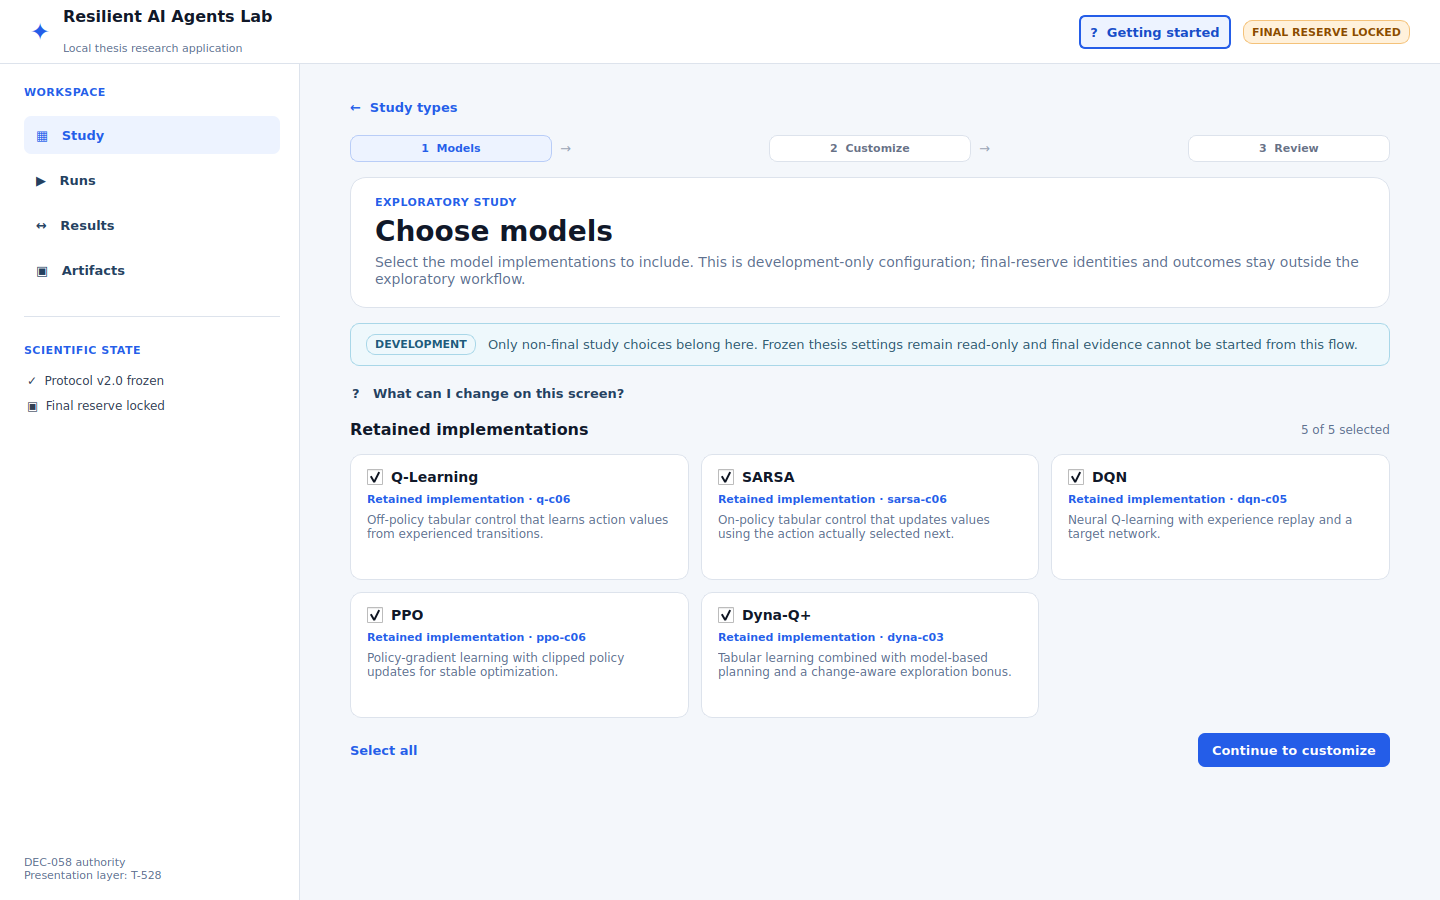
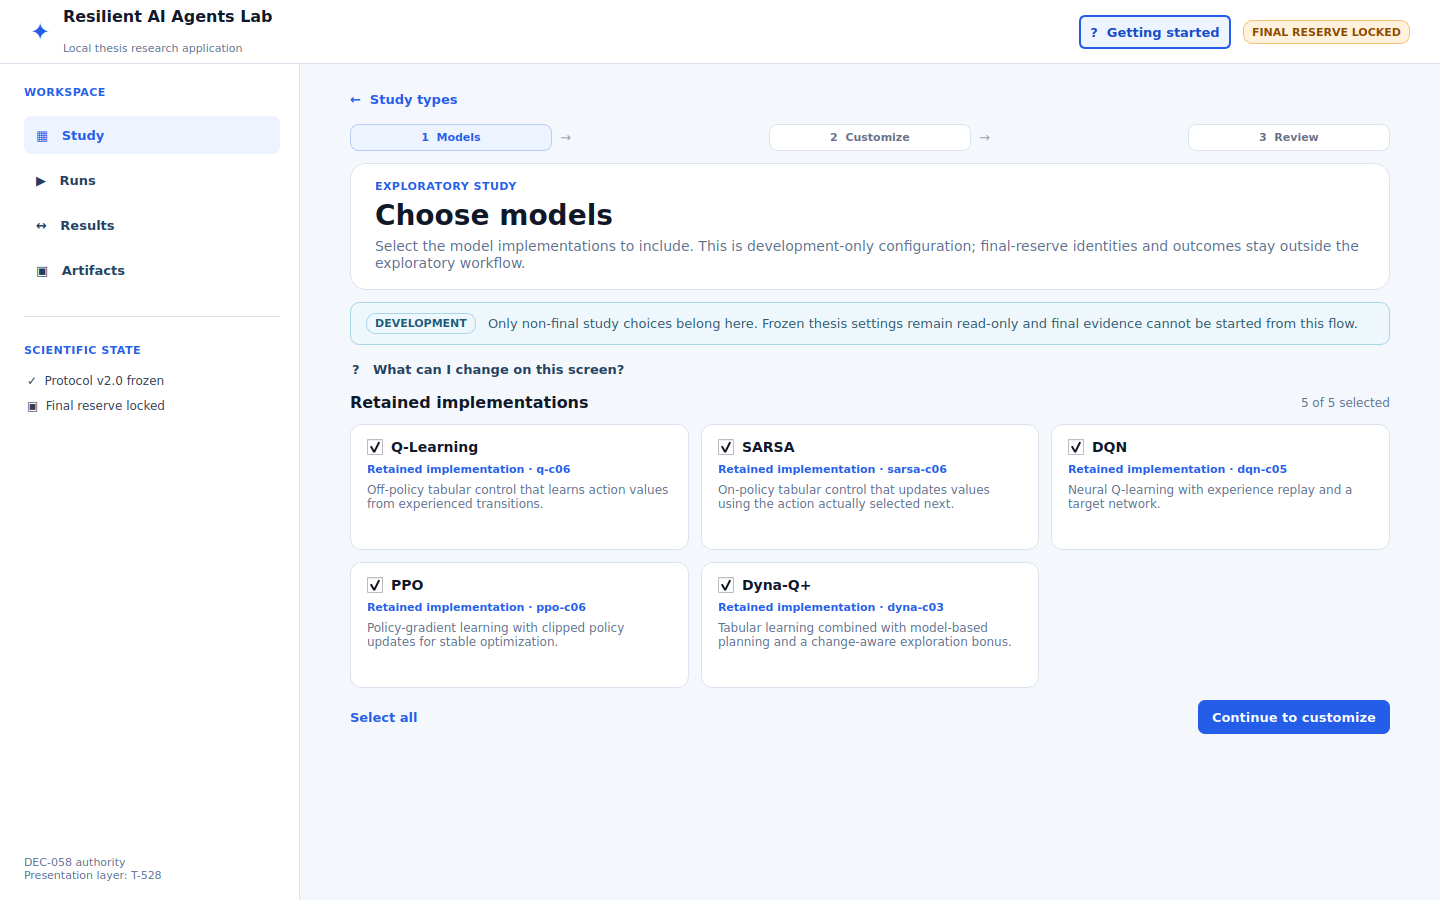
docs(t511): record human acceptance readiness

diff --git a/docs/context/TASKS.md b/docs/context/TASKS.md
@@ -21,11 +21,11 @@ Status: `[x]` complete; `READY` dependency-valid; `IN_PROGRESS` active; `BLOCKED
 
 - **Package:** protocol-v2 methodology/scientific freeze is complete through DEC-058; the framework-neutral Study backend is complete through DEC-051/T-529; the final Python-native application architecture and rebuild are complete through DEC-059/T-528. DEC-042/047 and candidate v1.1 remain auditable predecessor design; historical NiceGUI remains prototype history only.
 - **Project:** **6/8** master milestones objectively complete (#87: 1, 2, 3, 4, 5, 7). Milestone 6 awaits explicit intended-user acceptance; milestone 8 additionally awaits the final v2 evidence chain.
-- **Current task:** `T-511` — Intended-user application workflow/self-explanatory UX acceptance is READY and is the next application gate.
+- **Current task:** `T-511` — Intended-user application workflow/self-explanatory UX acceptance is READY FOR HUMAN ACCEPTANCE and is the next application gate.
 - **State:** DEC-055 tuning remains immutable valid-complete; DEC-055/056 sizing packages remain immutable valid-failed. DEC-057 sizing-v0.3 and the combined five-method sizing package are valid-complete. DEC-058 accepts the frozen protocol-v2.0 scientific authority with `final_reserve_access=false`. DEC-059 selects PySide6 / Qt 6 Widgets for the final local application. Final-reserve scientific execution remains unauthorized and requires an explicit later T-610+ authority.
 - **Completed Study backend:** `T-529` is COMPLETE. The framework-neutral Study lifecycle covers immutable recipe -> deterministic plan -> real Phase A -> exact checkpoint -> optional common no-learning prefix -> atomic FN/FD/AN/AD -> validation -> root/layout analysis with explicit denominators -> deterministic machine-readable evidence export, with restart-safe provenance and no frontend dependency.
 - **Completed final application:** `T-528` is COMPLETE. PySide6 now provides recipe-first Thesis Study review, separate DEVELOPMENT/Exploratory workflow, durable Study creation, non-blocking local execution supervision, truthful Runs/progress, matched Frozen/Adaptive live GridWorld presentation, stored-evidence Results, registered artifact provenance, accessibility/help/locked/error/empty states and deterministic CI screenshot review artifacts. The application does not own or reimplement scientific protocol logic.
-- **Validation:** the T-511 review hardening head (`bfaf515318258040a0dbab92a8dbf7ff13adfb99`) had Repository checks, Protocol-v2 pilot checks and PySide6 UI screenshot checks all green. Its inspected CI artifact confirmed complete full-widget rendering at 1366x768 and 1440x900 before the accepted images were curated. The bounded DEVELOPMENT application smoke traverses create -> execute -> validate -> analyze -> evidence handoff without final identities. Curated screenshots live under `ui-screenshots/pyside6/`; historical NiceGUI screenshots are segregated under `ui-screenshots/historical-nicegui/`.
+- **Validation:** the final T-511 acceptance-preparation implementation head (`4a7c8666a224586a49f489d7c894e7a42b366ec9`) had Repository checks, Protocol-v2 pilot checks and PySide6 UI screenshot checks all green. Its inspected CI artifact confirmed the complete workflow at 1366x768, 1440x900 and the 1480x920 reference size before the accepted image was curated. The bounded DEVELOPMENT application smoke traverses create -> execute -> validate -> analyze -> evidence handoff without final identities. Curated screenshots live under `ui-screenshots/pyside6/`; historical NiceGUI screenshots are segregated under `ui-screenshots/historical-nicegui/`.
 - **Branch / PR:** `feat/pre-wp7-protocol-v1.1-ui-rebuild` / draft, open, unmerged PR #92; no parallel main-repo implementation branch and no early merge.
 - **Trackers:** #87 master 6/8; #95 protocol-v2 10/10 CLOSED; #88 closed/superseded; #89 complete/closed; #93 T-528 complete/closed; #94 DEFERRED post-thesis.
 - **Historical science:** protocol-v1.0 / FINAL-* / R0 evidence immutable. Candidate v1.1 remains non-final history; old `T-522` must not execute. Historical scientific runners remain reproducible.
@@ -122,6 +122,7 @@ GridWorld is the controlled experimental/visualization testbed, not the thesis s
 
 - [ ] READY `T-511` — **Intended-user application workflow/self-explanatory UX acceptance.**
   - Depends on: `T-512`, `T-528` — satisfied.
+  - State: `T-511 — Intended-user application workflow/self-explanatory UX acceptance is READY FOR HUMAN ACCEPTANCE.`
   - Acceptance: user explicitly accepts final v2 thesis-study/custom configure/run/monitor/history/compare/export/error/help workflow. Automated checks never close this gate.
   - Review surface: accepted PySide6 application plus `ui-screenshots/pyside6/` and CI screenshot bundle.
 

diff --git a/docs/context/CURRENT_STATUS.md b/docs/context/CURRENT_STATUS.md
@@ -1,6 +1,6 @@
 # Current Project Status
 
-**Date:** 2026-08-31
+**Date:** 2026-09-01
 **Status:** Authoritative compact current-state summary
 
 `docs/context/TASKS.md` is the canonical ledger. Use **progressive** task-specific reading of DEC-048/049/050/051/052/053/054/055/056/057/058/059 and `docs/research/` / `docs/architecture/` only as needed.
@@ -14,9 +14,9 @@
 - DEC-058 accepts the final protocol-v2.0 scientific freeze. `configs/protocols/protocol-v2.0-final.json` retains `final_reserve_access=false`; issue #95 is 10/10 and CLOSED. No final-reserve scientific outcome was generated, and T-610+ remains unauthorized/unexecuted.
 - **`T-528 — Final Application / Frontend Rebuild` is COMPLETE under DEC-059.** The final application is Python-native PySide6 / Qt 6 Widgets over the framework-neutral Study backend; NiceGUI remains historical prototype only.
 - T-528 implements the recipe-first Thesis Study review path, clearly separated DEVELOPMENT/Exploratory Study flow, durable Study creation, non-blocking worker/supervisor execution, truthful Runs progress, matched Frozen/Adaptive live GridWorld presentation, stored-evidence Results (Compare Learning / Test Resilience), registered-artifact provenance, accessibility/help/empty/error/locked states and deterministic CI screenshot review artifacts.
-- T-528's bounded DEVELOPMENT application smoke completed the complete create -> execute -> validate -> analyze -> evidence-handoff lifecycle without final identities. The T-511 review hardening head (`bfaf515318258040a0dbab92a8dbf7ff13adfb99`) had Repository checks, Protocol-v2 checks and PySide6 UI screenshot checks all green.
-- The curated `ui-screenshots/pyside6/` review set is current from the inspected T-511 review artifact; `ui-screenshots/historical-nicegui/` is historical-only. CI remains the authoritative full screenshot bundle, including complete 1366x768 / 1440x900 renders and historical side-by-side references.
-- **`T-511 — Intended-user application workflow/self-explanatory UX acceptance` is READY and is the next application gate.** It requires explicit user acceptance; automated checks cannot close it.
+- T-528's bounded DEVELOPMENT application smoke completed the complete create -> execute -> validate -> analyze -> evidence-handoff lifecycle without final identities. The final T-511 acceptance-preparation implementation head (`4a7c8666a224586a49f489d7c894e7a42b366ec9`) had Repository checks, Protocol-v2 checks and PySide6 UI screenshot checks all green.
+- The curated `ui-screenshots/pyside6/` review set is current from the inspected T-511 acceptance-preparation artifact; `ui-screenshots/historical-nicegui/` is historical-only. CI remains the authoritative full screenshot bundle, including complete 1366x768 / 1440x900 / 1480x920 renders and historical side-by-side references.
+- **`T-511 — Intended-user application workflow/self-explanatory UX acceptance is READY FOR HUMAN ACCEPTANCE.`** It requires explicit user acceptance; automated checks cannot close it.
 - Master tracker #87 is now **6/8** objectively complete: milestones 1, 2, 3, 4, 5 and 7. Milestone 6 awaits T-511 human acceptance; milestone 8 additionally depends on the final v2 evidence chain.
 - PR #92 remains OPEN, DRAFT and UNMERGED.
 - **Pre-WP7 approval: NOT APPROVED.** No `T-700+` execution.
